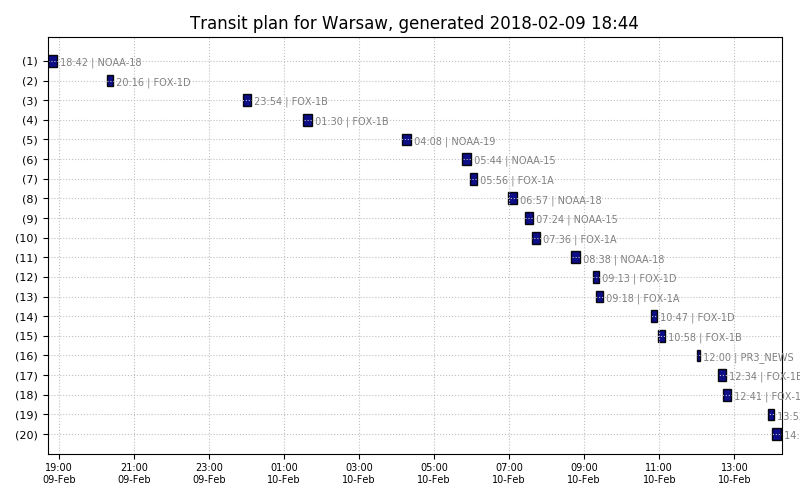
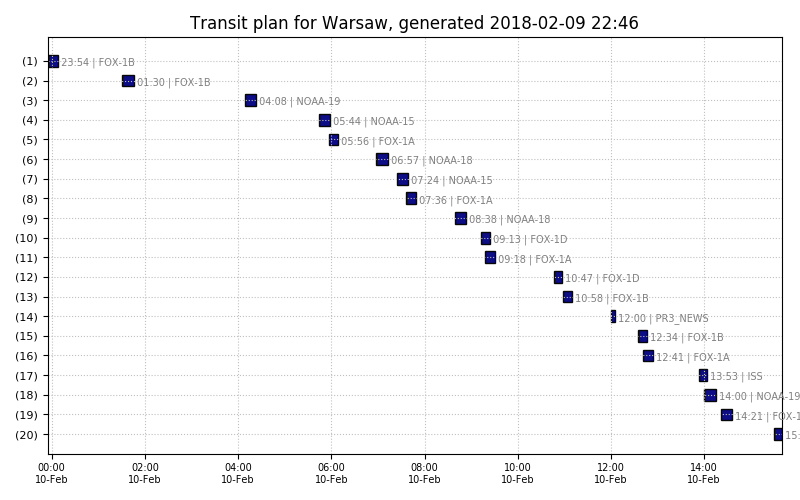
code style

diff --git a/var/nextpass.html b/var/nextpass.html
@@ -1,103 +1,103 @@
 <table>
 <tr><td>#</td><td>satellite</td><td>start</td><td>duration</td><td>peak</td><td>azimuth</td><td>freq</td><td>process with</td><tr>
-<tr><td>1</td><td>NOAA-18</td><td>2018-02-09 18:42</td><td>15:05</td><td>58°</td><td>257° (WSW←↙)</td><td>137912500Hz</td><td>modules/noaa/noaa.sh</td><tr>
-<tr><td>2</td><td>FOX-1D</td><td>2018-02-09 20:16</td><td>10:52</td><td>75°</td><td>73° (ENE→↗)</td><td>145880000Hz</td><td>modules/iss/iss_voice.sh</td><tr>
-<tr><td>3</td><td>FOX-1B</td><td>2018-02-09 23:54</td><td>13:11</td><td>21°</td><td>89° (ENE→↗)</td><td>145960000Hz</td><td>modules/iss/iss_voice.sh</td><tr>
-<tr><td>4</td><td>FOX-1B</td><td>2018-02-10 01:30</td><td>14:35</td><td>74°</td><td>287° (W←)</td><td>145960000Hz</td><td>modules/iss/iss_voice.sh</td><tr>
-<tr><td>5</td><td>NOAA-19</td><td>2018-02-10 04:08</td><td>15:13</td><td>82°</td><td>288° (W←)</td><td>137100000Hz</td><td>modules/noaa/noaa.sh</td><tr>
-<tr><td>6</td><td>NOAA-15</td><td>2018-02-10 05:44</td><td>13:59</td><td>33°</td><td>95° (E→)</td><td>137620000Hz</td><td>modules/noaa/noaa.sh</td><tr>
-<tr><td>7</td><td>FOX-1A</td><td>2018-02-10 05:56</td><td>11:21</td><td>26°</td><td>117° (ESE→↘)</td><td>145980000Hz</td><td>modules/iss/iss_voice.sh</td><tr>
-<tr><td>8</td><td>NOAA-18</td><td>2018-02-10 06:57</td><td>14:30</td><td>37°</td><td>96° (E→)</td><td>137912500Hz</td><td>modules/noaa/noaa.sh</td><tr>
-<tr><td>9</td><td>NOAA-15</td><td>2018-02-10 07:24</td><td>14:11</td><td>46°</td><td>294° (WNW←↖)</td><td>137620000Hz</td><td>modules/noaa/noaa.sh</td><tr>
-<tr><td>10</td><td>FOX-1A</td><td>2018-02-10 07:36</td><td>12:32</td><td>55°</td><td>319° (NW↖)</td><td>145980000Hz</td><td>modules/iss/iss_voice.sh</td><tr>
-<tr><td>11</td><td>NOAA-18</td><td>2018-02-10 08:38</td><td>14:28</td><td>43°</td><td>296° (WNW←↖)</td><td>137912500Hz</td><td>modules/noaa/noaa.sh</td><tr>
-<tr><td>12</td><td>FOX-1D</td><td>2018-02-10 09:13</td><td>10:37</td><td>42°</td><td>98° (E→)</td><td>145880000Hz</td><td>modules/iss/iss_voice.sh</td><tr>
-<tr><td>13</td><td>FOX-1A</td><td>2018-02-10 09:18</td><td>11:53</td><td>21°</td><td>343° (NNW↑↖)</td><td>145980000Hz</td><td>modules/iss/iss_voice.sh</td><tr>
-<tr><td>14</td><td>FOX-1D</td><td>2018-02-10 10:47</td><td>09:42</td><td>20°</td><td>297° (WNW←↖)</td><td>145880000Hz</td><td>modules/iss/iss_voice.sh</td><tr>
-<tr><td>15</td><td>FOX-1B</td><td>2018-02-10 10:58</td><td>11:42</td><td>27°</td><td>60° (NE↗)</td><td>145960000Hz</td><td>modules/iss/iss_voice.sh</td><tr>
-<tr><td>16</td><td>PR3_NEWS</td><td>2018-02-10 12:00</td><td>05:00</td><td>0°</td><td>0° (N↑)</td><td>98988000Hz</td><td>modules/fm/fm.sh</td><tr>
-<tr><td>17</td><td>FOX-1B</td><td>2018-02-10 12:34</td><td>12:15</td><td>43°</td><td>263° (WSW←↙)</td><td>145960000Hz</td><td>modules/iss/iss_voice.sh</td><tr>
-<tr><td>18</td><td>FOX-1A</td><td>2018-02-10 12:41</td><td>13:29</td><td>35°</td><td>31° (NNE↑↗)</td><td>145980000Hz</td><td>modules/iss/iss_voice.sh</td><tr>
-<tr><td>19</td><td>ISS</td><td>2018-02-10 13:53</td><td>09:56</td><td>49°</td><td>160° (SSE↓↘)</td><td>145800000Hz</td><td>modules/iss/iss_voice.sh</td><tr>
-<tr><td>20</td><td>NOAA-19</td><td>2018-02-10 14:00</td><td>15:02</td><td>59°</td><td>67° (NE↗)</td><td>137100000Hz</td><td>modules/noaa/noaa.sh</td><tr>
-<tr><td>21</td><td>FOX-1A</td><td>2018-02-10 14:21</td><td>14:07</td><td>66°</td><td>231° (SW↙)</td><td>145980000Hz</td><td>modules/iss/iss_voice.sh</td><tr>
-<tr><td>22</td><td>ISS</td><td>2018-02-10 15:29</td><td>10:06</td><td>81°</td><td>180° (S↓)</td><td>145800000Hz</td><td>modules/iss/iss_voice.sh</td><tr>
-<tr><td>23</td><td>NOAA-19</td><td>2018-02-10 15:41</td><td>13:55</td><td>26°</td><td>267° (WSW←↙)</td><td>137100000Hz</td><td>modules/noaa/noaa.sh</td><tr>
-<tr><td>24</td><td>NOAA-18</td><td>2018-02-10 16:50</td><td>13:33</td><td>25°</td><td>55° (NE↗)</td><td>137912500Hz</td><td>modules/noaa/noaa.sh</td><tr>
-<tr><td>25</td><td>NOAA-15</td><td>2018-02-10 17:10</td><td>14:41</td><td>88°</td><td>72° (ENE→↗)</td><td>137620000Hz</td><td>modules/noaa/noaa.sh</td><tr>
-<tr><td>26</td><td>NOAA-18</td><td>2018-02-10 18:30</td><td>15:06</td><td>71°</td><td>255° (WSW←↙)</td><td>137912500Hz</td><td>modules/noaa/noaa.sh</td><tr>
-<tr><td>27</td><td>FOX-1D</td><td>2018-02-10 19:56</td><td>10:40</td><td>45°</td><td>69° (ENE→↗)</td><td>145880000Hz</td><td>modules/iss/iss_voice.sh</td><tr>
-<tr><td>28</td><td>FOX-1B</td><td>2018-02-11 00:16</td><td>13:58</td><td>31°</td><td>93° (E→)</td><td>145960000Hz</td><td>modules/iss/iss_voice.sh</td><tr>
-<tr><td>29</td><td>FOX-1B</td><td>2018-02-11 01:53</td><td>14:21</td><td>51°</td><td>291° (W←)</td><td>145960000Hz</td><td>modules/iss/iss_voice.sh</td><tr>
-<tr><td>30</td><td>NOAA-19</td><td>2018-02-11 03:56</td><td>15:14</td><td>83°</td><td>106° (E→)</td><td>137100000Hz</td><td>modules/noaa/noaa.sh</td><tr>
-<tr><td>31</td><td>NOAA-15</td><td>2018-02-11 05:19</td><td>13:10</td><td>21°</td><td>90° (E→)</td><td>137620000Hz</td><td>modules/noaa/noaa.sh</td><tr>
-<tr><td>32</td><td>NOAA-19</td><td>2018-02-11 05:37</td><td>13:23</td><td>22°</td><td>306° (WNW←↖)</td><td>137100000Hz</td><td>modules/noaa/noaa.sh</td><tr>
-<tr><td>33</td><td>FOX-1A</td><td>2018-02-11 06:21</td><td>12:17</td><td>56°</td><td>126° (ESE→↘)</td><td>145980000Hz</td><td>modules/iss/iss_voice.sh</td><tr>
-<tr><td>34</td><td>NOAA-18</td><td>2018-02-11 06:46</td><td>14:12</td><td>30°</td><td>94° (E→)</td><td>137912500Hz</td><td>modules/noaa/noaa.sh</td><tr>
-<tr><td>35</td><td>NOAA-15</td><td>2018-02-11 06:59</td><td>14:32</td><td>70°</td><td>289° (W←)</td><td>137620000Hz</td><td>modules/noaa/noaa.sh</td><tr>
-<tr><td>36</td><td>FOX-1A</td><td>2018-02-11 08:01</td><td>12:20</td><td>33°</td><td>329° (NW↖)</td><td>145980000Hz</td><td>modules/iss/iss_voice.sh</td><tr>
-<tr><td>37</td><td>NOAA-18</td><td>2018-02-11 08:27</td><td>14:41</td><td>51°</td><td>294° (WNW←↖)</td><td>137912500Hz</td><td>modules/noaa/noaa.sh</td><tr>
-<tr><td>38</td><td>FOX-1D</td><td>2018-02-11 08:53</td><td>10:13</td><td>26°</td><td>94° (E→)</td><td>145880000Hz</td><td>modules/iss/iss_voice.sh</td><tr>
-<tr><td>39</td><td>FOX-1D</td><td>2018-02-11 10:27</td><td>10:15</td><td>30°</td><td>293° (WNW←↖)</td><td>145880000Hz</td><td>modules/iss/iss_voice.sh</td><tr>
-<tr><td>40</td><td>FOX-1B</td><td>2018-02-11 11:19</td><td>12:18</td><td>40°</td><td>65° (NE↗)</td><td>145960000Hz</td><td>modules/iss/iss_voice.sh</td><tr>
-<tr><td>41</td><td>FOX-1A</td><td>2018-02-11 11:25</td><td>12:32</td><td>22°</td><td>18° (N↑)</td><td>145980000Hz</td><td>modules/iss/iss_voice.sh</td><tr>
-<tr><td>42</td><td>PR3_NEWS</td><td>2018-02-11 12:00</td><td>05:00</td><td>0°</td><td>0° (N↑)</td><td>98988000Hz</td><td>modules/fm/fm.sh</td><tr>
-<tr><td>43</td><td>FOX-1B</td><td>2018-02-11 12:56</td><td>11:52</td><td>28°</td><td>268° (WSW←↙)</td><td>145960000Hz</td><td>modules/iss/iss_voice.sh</td><tr>
-<tr><td>44</td><td>FOX-1A</td><td>2018-02-11 13:06</td><td>14:06</td><td>55°</td><td>40° (NNE↑↗)</td><td>145980000Hz</td><td>modules/iss/iss_voice.sh</td><tr>
-<tr><td>45</td><td>NOAA-19</td><td>2018-02-11 13:48</td><td>14:46</td><td>49°</td><td>64° (NE↗)</td><td>137100000Hz</td><td>modules/noaa/noaa.sh</td><tr>
-<tr><td>46</td><td>ISS</td><td>2018-02-11 14:37</td><td>10:02</td><td>78°</td><td>174° (SSE↓↘)</td><td>145800000Hz</td><td>modules/iss/iss_voice.sh</td><tr>
-<tr><td>47</td><td>FOX-1A</td><td>2018-02-11 14:46</td><td>13:36</td><td>35°</td><td>239° (SW↙)</td><td>145980000Hz</td><td>modules/iss/iss_voice.sh</td><tr>
-<tr><td>48</td><td>NOAA-19</td><td>2018-02-11 15:30</td><td>14:24</td><td>32°</td><td>265° (WSW←↙)</td><td>137100000Hz</td><td>modules/noaa/noaa.sh</td><tr>
-<tr><td>49</td><td>ISS</td><td>2018-02-11 16:13</td><td>09:59</td><td>61°</td><td>194° (S↓)</td><td>145800000Hz</td><td>modules/iss/iss_voice.sh</td><tr>
-<tr><td>50</td><td>NOAA-18</td><td>2018-02-11 16:39</td><td>13:07</td><td>21°</td><td>52° (NE↗)</td><td>137912500Hz</td><td>modules/noaa/noaa.sh</td><tr>
-<tr><td>51</td><td>NOAA-15</td><td>2018-02-11 16:45</td><td>14:29</td><td>59°</td><td>68° (ENE→↗)</td><td>137620000Hz</td><td>modules/noaa/noaa.sh</td><tr>
-<tr><td>52</td><td>ISS</td><td>2018-02-11 17:50</td><td>09:09</td><td>20°</td><td>213° (SSW↓↙)</td><td>145800000Hz</td><td>modules/iss/iss_voice.sh</td><tr>
-<tr><td>53</td><td>NOAA-18</td><td>2018-02-11 18:18</td><td>15:04</td><td>86°</td><td>253° (WSW←↙)</td><td>137912500Hz</td><td>modules/noaa/noaa.sh</td><tr>
-<tr><td>54</td><td>NOAA-15</td><td>2018-02-11 18:26</td><td>13:38</td><td>25°</td><td>267° (WSW←↙)</td><td>137620000Hz</td><td>modules/noaa/noaa.sh</td><tr>
-<tr><td>55</td><td>FOX-1D</td><td>2018-02-11 19:36</td><td>10:16</td><td>28°</td><td>65° (NE↗)</td><td>145880000Hz</td><td>modules/iss/iss_voice.sh</td><tr>
-<tr><td>56</td><td>FOX-1D</td><td>2018-02-11 21:10</td><td>10:24</td><td>28°</td><td>264° (WSW←↙)</td><td>145880000Hz</td><td>modules/iss/iss_voice.sh</td><tr>
-<tr><td>57</td><td>FOX-1B</td><td>2018-02-12 00:38</td><td>14:29</td><td>46°</td><td>97° (E→)</td><td>145960000Hz</td><td>modules/iss/iss_voice.sh</td><tr>
-<tr><td>58</td><td>FOX-1B</td><td>2018-02-12 02:15</td><td>13:56</td><td>35°</td><td>296° (WNW←↖)</td><td>145960000Hz</td><td>modules/iss/iss_voice.sh</td><tr>
-<tr><td>59</td><td>NOAA-19</td><td>2018-02-12 03:45</td><td>15:13</td><td>69°</td><td>103° (E→)</td><td>137100000Hz</td><td>modules/noaa/noaa.sh</td><tr>
-<tr><td>60</td><td>NOAA-19</td><td>2018-02-12 05:26</td><td>13:47</td><td>26°</td><td>304° (WNW←↖)</td><td>137100000Hz</td><td>modules/noaa/noaa.sh</td><tr>
-<tr><td>61</td><td>NOAA-15</td><td>2018-02-12 06:34</td><td>14:37</td><td>78°</td><td>104° (E→)</td><td>137620000Hz</td><td>modules/noaa/noaa.sh</td><tr>
-<tr><td>62</td><td>NOAA-18</td><td>2018-02-12 06:34</td><td>13:54</td><td>25°</td><td>92° (E→)</td><td>137912500Hz</td><td>modules/noaa/noaa.sh</td><tr>
-<tr><td>63</td><td>FOX-1A</td><td>2018-02-12 06:46</td><td>12:34</td><td>73°</td><td>315° (NW↖)</td><td>145980000Hz</td><td>modules/iss/iss_voice.sh</td><tr>
-<tr><td>64</td><td>NOAA-15</td><td>2018-02-12 08:14</td><td>12:53</td><td>22°</td><td>305° (WNW←↖)</td><td>137620000Hz</td><td>modules/noaa/noaa.sh</td><tr>
-<tr><td>65</td><td>NOAA-18</td><td>2018-02-12 08:15</td><td>14:50</td><td>62°</td><td>292° (W←)</td><td>137912500Hz</td><td>modules/noaa/noaa.sh</td><tr>
-<tr><td>66</td><td>FOX-1A</td><td>2018-02-12 08:27</td><td>11:55</td><td>23°</td><td>339° (NNW↑↖)</td><td>145980000Hz</td><td>modules/iss/iss_voice.sh</td><tr>
-<tr><td>67</td><td>FOX-1D</td><td>2018-02-12 10:06</td><td>10:37</td><td>48°</td><td>289° (W←)</td><td>145880000Hz</td><td>modules/iss/iss_voice.sh</td><tr>
-<tr><td>68</td><td>FOX-1B</td><td>2018-02-12 11:41</td><td>12:42</td><td>63°</td><td>70° (ENE→↗)</td><td>145960000Hz</td><td>modules/iss/iss_voice.sh</td><tr>
-<tr><td>69</td><td>FOX-1A</td><td>2018-02-12 11:50</td><td>13:12</td><td>29°</td><td>27° (NNE↑↗)</td><td>145980000Hz</td><td>modules/iss/iss_voice.sh</td><tr>
-<tr><td>70</td><td>PR3_NEWS</td><td>2018-02-12 12:00</td><td>05:00</td><td>0°</td><td>0° (N↑)</td><td>98988000Hz</td><td>modules/fm/fm.sh</td><tr>
-<tr><td>71</td><td>ISS</td><td>2018-02-12 12:09</td><td>09:29</td><td>25°</td><td>149° (SE↘)</td><td>145800000Hz</td><td>modules/iss/iss_voice.sh</td><tr>
-<tr><td>72</td><td>NOAA-19</td><td>2018-02-12 13:37</td><td>14:33</td><td>41°</td><td>62° (NE↗)</td><td>137100000Hz</td><td>modules/noaa/noaa.sh</td><tr>
-<tr><td>73</td><td>NOAA-19</td><td>2018-02-12 15:18</td><td>14:41</td><td>39°</td><td>262° (WSW←↙)</td><td>137100000Hz</td><td>modules/noaa/noaa.sh</td><tr>
-<tr><td>74</td><td>NOAA-15</td><td>2018-02-12 16:21</td><td>14:04</td><td>39°</td><td>63° (NE↗)</td><td>137620000Hz</td><td>modules/noaa/noaa.sh</td><tr>
-<tr><td>75</td><td>ISS</td><td>2018-02-12 16:57</td><td>09:35</td><td>29°</td><td>207° (SSW↓↙)</td><td>145800000Hz</td><td>modules/iss/iss_voice.sh</td><tr>
-<tr><td>76</td><td>NOAA-15</td><td>2018-02-12 18:00</td><td>14:16</td><td>39°</td><td>262° (WSW←↙)</td><td>137620000Hz</td><td>modules/noaa/noaa.sh</td><tr>
-<tr><td>77</td><td>NOAA-18</td><td>2018-02-12 18:07</td><td>15:08</td><td>79°</td><td>70° (ENE→↗)</td><td>137912500Hz</td><td>modules/noaa/noaa.sh</td><tr>
-<tr><td>78</td><td>FOX-1D</td><td>2018-02-12 20:49</td><td>10:45</td><td>46°</td><td>260° (WSW←↙)</td><td>145880000Hz</td><td>modules/iss/iss_voice.sh</td><tr>
-<tr><td>79</td><td>FOX-1B</td><td>2018-02-13 01:01</td><td>14:43</td><td>68°</td><td>101° (E→)</td><td>145960000Hz</td><td>modules/iss/iss_voice.sh</td><tr>
-<tr><td>80</td><td>FOX-1B</td><td>2018-02-13 02:37</td><td>13:19</td><td>25°</td><td>300° (WNW←↖)</td><td>145960000Hz</td><td>modules/iss/iss_voice.sh</td><tr>
-<tr><td>81</td><td>NOAA-19</td><td>2018-02-13 03:33</td><td>15:08</td><td>57°</td><td>101° (E→)</td><td>137100000Hz</td><td>modules/noaa/noaa.sh</td><tr>
-<tr><td>82</td><td>NOAA-19</td><td>2018-02-13 05:14</td><td>14:08</td><td>30°</td><td>301° (WNW←↖)</td><td>137100000Hz</td><td>modules/noaa/noaa.sh</td><tr>
-<tr><td>83</td><td>FOX-1A</td><td>2018-02-13 05:31</td><td>12:00</td><td>39°</td><td>122° (ESE→↘)</td><td>145980000Hz</td><td>modules/iss/iss_voice.sh</td><tr>
-<tr><td>84</td><td>NOAA-15</td><td>2018-02-13 06:09</td><td>14:27</td><td>50°</td><td>100° (E→)</td><td>137620000Hz</td><td>modules/noaa/noaa.sh</td><tr>
-<tr><td>85</td><td>NOAA-18</td><td>2018-02-13 06:23</td><td>13:23</td><td>20°</td><td>89° (ENE→↗)</td><td>137912500Hz</td><td>modules/noaa/noaa.sh</td><tr>
-<tr><td>86</td><td>FOX-1A</td><td>2018-02-13 07:11</td><td>12:29</td><td>41°</td><td>324° (NW↖)</td><td>145980000Hz</td><td>modules/iss/iss_voice.sh</td><tr>
-<tr><td>87</td><td>NOAA-15</td><td>2018-02-13 07:49</td><td>13:39</td><td>31°</td><td>300° (WNW←↖)</td><td>137620000Hz</td><td>modules/noaa/noaa.sh</td><tr>
-<tr><td>88</td><td>NOAA-18</td><td>2018-02-13 08:03</td><td>14:57</td><td>75°</td><td>289° (W←)</td><td>137912500Hz</td><td>modules/noaa/noaa.sh</td><tr>
-<tr><td>89</td><td>FOX-1D</td><td>2018-02-13 09:46</td><td>10:47</td><td>82°</td><td>285° (W←)</td><td>145880000Hz</td><td>modules/iss/iss_voice.sh</td><tr>
-<tr><td>90</td><td>FOX-1A</td><td>2018-02-13 10:34</td><td>12:18</td><td>20°</td><td>13° (N↑)</td><td>145980000Hz</td><td>modules/iss/iss_voice.sh</td><tr>
-<tr><td>91</td><td>PR3_NEWS</td><td>2018-02-13 12:00</td><td>05:00</td><td>0°</td><td>0° (N↑)</td><td>98988000Hz</td><td>modules/fm/fm.sh</td><tr>
-<tr><td>92</td><td>FOX-1B</td><td>2018-02-13 12:03</td><td>12:54</td><td>82°</td><td>256° (WSW←↙)</td><td>145960000Hz</td><td>modules/iss/iss_voice.sh</td><tr>
-<tr><td>93</td><td>FOX-1A</td><td>2018-02-13 12:15</td><td>13:48</td><td>44°</td><td>36° (NNE↑↗)</td><td>145980000Hz</td><td>modules/iss/iss_voice.sh</td><tr>
-<tr><td>94</td><td>ISS</td><td>2018-02-13 12:52</td><td>09:56</td><td>54°</td><td>162° (SSE↓↘)</td><td>145800000Hz</td><td>modules/iss/iss_voice.sh</td><tr>
-<tr><td>95</td><td>NOAA-19</td><td>2018-02-13 13:26</td><td>14:18</td><td>35°</td><td>60° (NE↗)</td><td>137100000Hz</td><td>modules/noaa/noaa.sh</td><tr>
-<tr><td>96</td><td>FOX-1A</td><td>2018-02-13 13:56</td><td>13:56</td><td>47°</td><td>236° (SW↙)</td><td>145980000Hz</td><td>modules/iss/iss_voice.sh</td><tr>
-<tr><td>97</td><td>ISS</td><td>2018-02-13 14:29</td><td>10:02</td><td>80°</td><td>182° (S↓)</td><td>145800000Hz</td><td>modules/iss/iss_voice.sh</td><tr>
-<tr><td>98</td><td>NOAA-19</td><td>2018-02-13 15:06</td><td>14:54</td><td>47°</td><td>260° (WSW←↙)</td><td>137100000Hz</td><td>modules/noaa/noaa.sh</td><tr>
-<tr><td>99</td><td>NOAA-15</td><td>2018-02-13 15:56</td><td>13:25</td><td>27°</td><td>57° (NE↗)</td><td>137620000Hz</td><td>modules/noaa/noaa.sh</td><tr>
-<tr><td>100</td><td>NOAA-15</td><td>2018-02-13 17:35</td><td>14:34</td><td>61°</td><td>257° (WSW←↙)</td><td>137620000Hz</td><td>modules/noaa/noaa.sh</td><tr>
+<tr><td>1</td><td>FOX-1B</td><td>2018-02-09 23:54</td><td>13:10</td><td>21°</td><td>89° (ENE→↗)</td><td>145960000Hz</td><td>modules/iss/iss_voice.sh</td><tr>
+<tr><td>2</td><td>FOX-1B</td><td>2018-02-10 01:30</td><td>14:35</td><td>74°</td><td>287° (W←)</td><td>145960000Hz</td><td>modules/iss/iss_voice.sh</td><tr>
+<tr><td>3</td><td>NOAA-19</td><td>2018-02-10 04:08</td><td>15:13</td><td>82°</td><td>288° (W←)</td><td>137100000Hz</td><td>modules/noaa/noaa.sh</td><tr>
+<tr><td>4</td><td>NOAA-15</td><td>2018-02-10 05:44</td><td>13:59</td><td>33°</td><td>95° (E→)</td><td>137620000Hz</td><td>modules/noaa/noaa.sh</td><tr>
+<tr><td>5</td><td>FOX-1A</td><td>2018-02-10 05:56</td><td>11:21</td><td>26°</td><td>117° (ESE→↘)</td><td>145980000Hz</td><td>modules/iss/iss_voice.sh</td><tr>
+<tr><td>6</td><td>NOAA-18</td><td>2018-02-10 06:57</td><td>14:30</td><td>37°</td><td>96° (E→)</td><td>137912500Hz</td><td>modules/noaa/noaa.sh</td><tr>
+<tr><td>7</td><td>NOAA-15</td><td>2018-02-10 07:24</td><td>14:11</td><td>46°</td><td>294° (WNW←↖)</td><td>137620000Hz</td><td>modules/noaa/noaa.sh</td><tr>
+<tr><td>8</td><td>FOX-1A</td><td>2018-02-10 07:36</td><td>12:32</td><td>55°</td><td>319° (NW↖)</td><td>145980000Hz</td><td>modules/iss/iss_voice.sh</td><tr>
+<tr><td>9</td><td>NOAA-18</td><td>2018-02-10 08:38</td><td>14:28</td><td>43°</td><td>296° (WNW←↖)</td><td>137912500Hz</td><td>modules/noaa/noaa.sh</td><tr>
+<tr><td>10</td><td>FOX-1D</td><td>2018-02-10 09:13</td><td>10:37</td><td>42°</td><td>98° (E→)</td><td>145880000Hz</td><td>modules/iss/iss_voice.sh</td><tr>
+<tr><td>11</td><td>FOX-1A</td><td>2018-02-10 09:18</td><td>11:53</td><td>21°</td><td>343° (NNW↑↖)</td><td>145980000Hz</td><td>modules/iss/iss_voice.sh</td><tr>
+<tr><td>12</td><td>FOX-1D</td><td>2018-02-10 10:47</td><td>09:42</td><td>20°</td><td>297° (WNW←↖)</td><td>145880000Hz</td><td>modules/iss/iss_voice.sh</td><tr>
+<tr><td>13</td><td>FOX-1B</td><td>2018-02-10 10:58</td><td>11:42</td><td>27°</td><td>60° (NE↗)</td><td>145960000Hz</td><td>modules/iss/iss_voice.sh</td><tr>
+<tr><td>14</td><td>PR3_NEWS</td><td>2018-02-10 12:00</td><td>05:00</td><td>0°</td><td>0° (N↑)</td><td>98988000Hz</td><td>modules/fm/fm.sh</td><tr>
+<tr><td>15</td><td>FOX-1B</td><td>2018-02-10 12:34</td><td>12:15</td><td>43°</td><td>263° (WSW←↙)</td><td>145960000Hz</td><td>modules/iss/iss_voice.sh</td><tr>
+<tr><td>16</td><td>FOX-1A</td><td>2018-02-10 12:41</td><td>13:29</td><td>35°</td><td>31° (NNE↑↗)</td><td>145980000Hz</td><td>modules/iss/iss_voice.sh</td><tr>
+<tr><td>17</td><td>ISS</td><td>2018-02-10 13:53</td><td>09:56</td><td>49°</td><td>160° (SSE↓↘)</td><td>145800000Hz</td><td>modules/iss/iss_voice.sh</td><tr>
+<tr><td>18</td><td>NOAA-19</td><td>2018-02-10 14:00</td><td>15:02</td><td>59°</td><td>67° (NE↗)</td><td>137100000Hz</td><td>modules/noaa/noaa.sh</td><tr>
+<tr><td>19</td><td>FOX-1A</td><td>2018-02-10 14:21</td><td>14:07</td><td>66°</td><td>231° (SW↙)</td><td>145980000Hz</td><td>modules/iss/iss_voice.sh</td><tr>
+<tr><td>20</td><td>ISS</td><td>2018-02-10 15:29</td><td>10:06</td><td>81°</td><td>180° (S↓)</td><td>145800000Hz</td><td>modules/iss/iss_voice.sh</td><tr>
+<tr><td>21</td><td>NOAA-19</td><td>2018-02-10 15:41</td><td>13:55</td><td>26°</td><td>267° (WSW←↙)</td><td>137100000Hz</td><td>modules/noaa/noaa.sh</td><tr>
+<tr><td>22</td><td>NOAA-18</td><td>2018-02-10 16:50</td><td>13:33</td><td>25°</td><td>55° (NE↗)</td><td>137912500Hz</td><td>modules/noaa/noaa.sh</td><tr>
+<tr><td>23</td><td>NOAA-15</td><td>2018-02-10 17:10</td><td>14:41</td><td>88°</td><td>72° (ENE→↗)</td><td>137620000Hz</td><td>modules/noaa/noaa.sh</td><tr>
+<tr><td>24</td><td>NOAA-18</td><td>2018-02-10 18:30</td><td>15:06</td><td>71°</td><td>255° (WSW←↙)</td><td>137912500Hz</td><td>modules/noaa/noaa.sh</td><tr>
+<tr><td>25</td><td>FOX-1D</td><td>2018-02-10 19:56</td><td>10:40</td><td>45°</td><td>69° (ENE→↗)</td><td>145880000Hz</td><td>modules/iss/iss_voice.sh</td><tr>
+<tr><td>26</td><td>FOX-1B</td><td>2018-02-11 00:16</td><td>13:58</td><td>31°</td><td>93° (E→)</td><td>145960000Hz</td><td>modules/iss/iss_voice.sh</td><tr>
+<tr><td>27</td><td>FOX-1B</td><td>2018-02-11 01:53</td><td>14:21</td><td>51°</td><td>291° (W←)</td><td>145960000Hz</td><td>modules/iss/iss_voice.sh</td><tr>
+<tr><td>28</td><td>NOAA-19</td><td>2018-02-11 03:56</td><td>15:14</td><td>83°</td><td>106° (E→)</td><td>137100000Hz</td><td>modules/noaa/noaa.sh</td><tr>
+<tr><td>29</td><td>NOAA-15</td><td>2018-02-11 05:19</td><td>13:10</td><td>21°</td><td>90° (E→)</td><td>137620000Hz</td><td>modules/noaa/noaa.sh</td><tr>
+<tr><td>30</td><td>NOAA-19</td><td>2018-02-11 05:37</td><td>13:23</td><td>22°</td><td>306° (WNW←↖)</td><td>137100000Hz</td><td>modules/noaa/noaa.sh</td><tr>
+<tr><td>31</td><td>FOX-1A</td><td>2018-02-11 06:21</td><td>12:17</td><td>56°</td><td>126° (ESE→↘)</td><td>145980000Hz</td><td>modules/iss/iss_voice.sh</td><tr>
+<tr><td>32</td><td>NOAA-18</td><td>2018-02-11 06:46</td><td>14:12</td><td>30°</td><td>94° (E→)</td><td>137912500Hz</td><td>modules/noaa/noaa.sh</td><tr>
+<tr><td>33</td><td>NOAA-15</td><td>2018-02-11 06:59</td><td>14:32</td><td>70°</td><td>289° (W←)</td><td>137620000Hz</td><td>modules/noaa/noaa.sh</td><tr>
+<tr><td>34</td><td>FOX-1A</td><td>2018-02-11 08:01</td><td>12:20</td><td>33°</td><td>329° (NW↖)</td><td>145980000Hz</td><td>modules/iss/iss_voice.sh</td><tr>
+<tr><td>35</td><td>NOAA-18</td><td>2018-02-11 08:27</td><td>14:41</td><td>51°</td><td>294° (WNW←↖)</td><td>137912500Hz</td><td>modules/noaa/noaa.sh</td><tr>
+<tr><td>36</td><td>FOX-1D</td><td>2018-02-11 08:53</td><td>10:13</td><td>26°</td><td>94° (E→)</td><td>145880000Hz</td><td>modules/iss/iss_voice.sh</td><tr>
+<tr><td>37</td><td>FOX-1D</td><td>2018-02-11 10:27</td><td>10:15</td><td>30°</td><td>293° (WNW←↖)</td><td>145880000Hz</td><td>modules/iss/iss_voice.sh</td><tr>
+<tr><td>38</td><td>FOX-1B</td><td>2018-02-11 11:19</td><td>12:18</td><td>40°</td><td>65° (NE↗)</td><td>145960000Hz</td><td>modules/iss/iss_voice.sh</td><tr>
+<tr><td>39</td><td>FOX-1A</td><td>2018-02-11 11:25</td><td>12:32</td><td>22°</td><td>18° (N↑)</td><td>145980000Hz</td><td>modules/iss/iss_voice.sh</td><tr>
+<tr><td>40</td><td>PR3_NEWS</td><td>2018-02-11 12:00</td><td>05:00</td><td>0°</td><td>0° (N↑)</td><td>98988000Hz</td><td>modules/fm/fm.sh</td><tr>
+<tr><td>41</td><td>FOX-1B</td><td>2018-02-11 12:56</td><td>11:52</td><td>28°</td><td>268° (WSW←↙)</td><td>145960000Hz</td><td>modules/iss/iss_voice.sh</td><tr>
+<tr><td>42</td><td>FOX-1A</td><td>2018-02-11 13:06</td><td>14:06</td><td>55°</td><td>40° (NNE↑↗)</td><td>145980000Hz</td><td>modules/iss/iss_voice.sh</td><tr>
+<tr><td>43</td><td>NOAA-19</td><td>2018-02-11 13:48</td><td>14:46</td><td>49°</td><td>64° (NE↗)</td><td>137100000Hz</td><td>modules/noaa/noaa.sh</td><tr>
+<tr><td>44</td><td>ISS</td><td>2018-02-11 14:37</td><td>10:02</td><td>78°</td><td>174° (SSE↓↘)</td><td>145800000Hz</td><td>modules/iss/iss_voice.sh</td><tr>
+<tr><td>45</td><td>FOX-1A</td><td>2018-02-11 14:46</td><td>13:36</td><td>35°</td><td>239° (SW↙)</td><td>145980000Hz</td><td>modules/iss/iss_voice.sh</td><tr>
+<tr><td>46</td><td>NOAA-19</td><td>2018-02-11 15:30</td><td>14:24</td><td>32°</td><td>265° (WSW←↙)</td><td>137100000Hz</td><td>modules/noaa/noaa.sh</td><tr>
+<tr><td>47</td><td>ISS</td><td>2018-02-11 16:13</td><td>09:59</td><td>61°</td><td>194° (S↓)</td><td>145800000Hz</td><td>modules/iss/iss_voice.sh</td><tr>
+<tr><td>48</td><td>NOAA-18</td><td>2018-02-11 16:39</td><td>13:07</td><td>21°</td><td>52° (NE↗)</td><td>137912500Hz</td><td>modules/noaa/noaa.sh</td><tr>
+<tr><td>49</td><td>NOAA-15</td><td>2018-02-11 16:45</td><td>14:29</td><td>59°</td><td>68° (ENE→↗)</td><td>137620000Hz</td><td>modules/noaa/noaa.sh</td><tr>
+<tr><td>50</td><td>ISS</td><td>2018-02-11 17:50</td><td>09:09</td><td>20°</td><td>213° (SSW↓↙)</td><td>145800000Hz</td><td>modules/iss/iss_voice.sh</td><tr>
+<tr><td>51</td><td>NOAA-18</td><td>2018-02-11 18:18</td><td>15:04</td><td>86°</td><td>253° (WSW←↙)</td><td>137912500Hz</td><td>modules/noaa/noaa.sh</td><tr>
+<tr><td>52</td><td>NOAA-15</td><td>2018-02-11 18:26</td><td>13:38</td><td>25°</td><td>267° (WSW←↙)</td><td>137620000Hz</td><td>modules/noaa/noaa.sh</td><tr>
+<tr><td>53</td><td>FOX-1D</td><td>2018-02-11 19:36</td><td>10:16</td><td>28°</td><td>65° (NE↗)</td><td>145880000Hz</td><td>modules/iss/iss_voice.sh</td><tr>
+<tr><td>54</td><td>FOX-1D</td><td>2018-02-11 21:10</td><td>10:24</td><td>28°</td><td>264° (WSW←↙)</td><td>145880000Hz</td><td>modules/iss/iss_voice.sh</td><tr>
+<tr><td>55</td><td>FOX-1B</td><td>2018-02-12 00:38</td><td>14:29</td><td>46°</td><td>97° (E→)</td><td>145960000Hz</td><td>modules/iss/iss_voice.sh</td><tr>
+<tr><td>56</td><td>FOX-1B</td><td>2018-02-12 02:15</td><td>13:56</td><td>35°</td><td>296° (WNW←↖)</td><td>145960000Hz</td><td>modules/iss/iss_voice.sh</td><tr>
+<tr><td>57</td><td>NOAA-19</td><td>2018-02-12 03:45</td><td>15:13</td><td>69°</td><td>103° (E→)</td><td>137100000Hz</td><td>modules/noaa/noaa.sh</td><tr>
+<tr><td>58</td><td>NOAA-19</td><td>2018-02-12 05:26</td><td>13:47</td><td>26°</td><td>304° (WNW←↖)</td><td>137100000Hz</td><td>modules/noaa/noaa.sh</td><tr>
+<tr><td>59</td><td>NOAA-15</td><td>2018-02-12 06:34</td><td>14:37</td><td>78°</td><td>104° (E→)</td><td>137620000Hz</td><td>modules/noaa/noaa.sh</td><tr>
+<tr><td>60</td><td>NOAA-18</td><td>2018-02-12 06:34</td><td>13:54</td><td>25°</td><td>92° (E→)</td><td>137912500Hz</td><td>modules/noaa/noaa.sh</td><tr>
+<tr><td>61</td><td>FOX-1A</td><td>2018-02-12 06:46</td><td>12:34</td><td>73°</td><td>315° (NW↖)</td><td>145980000Hz</td><td>modules/iss/iss_voice.sh</td><tr>
+<tr><td>62</td><td>NOAA-15</td><td>2018-02-12 08:14</td><td>12:53</td><td>22°</td><td>305° (WNW←↖)</td><td>137620000Hz</td><td>modules/noaa/noaa.sh</td><tr>
+<tr><td>63</td><td>NOAA-18</td><td>2018-02-12 08:15</td><td>14:50</td><td>62°</td><td>292° (W←)</td><td>137912500Hz</td><td>modules/noaa/noaa.sh</td><tr>
+<tr><td>64</td><td>FOX-1A</td><td>2018-02-12 08:27</td><td>11:55</td><td>23°</td><td>339° (NNW↑↖)</td><td>145980000Hz</td><td>modules/iss/iss_voice.sh</td><tr>
+<tr><td>65</td><td>FOX-1D</td><td>2018-02-12 10:06</td><td>10:37</td><td>48°</td><td>289° (W←)</td><td>145880000Hz</td><td>modules/iss/iss_voice.sh</td><tr>
+<tr><td>66</td><td>FOX-1B</td><td>2018-02-12 11:41</td><td>12:42</td><td>63°</td><td>70° (ENE→↗)</td><td>145960000Hz</td><td>modules/iss/iss_voice.sh</td><tr>
+<tr><td>67</td><td>FOX-1A</td><td>2018-02-12 11:50</td><td>13:12</td><td>29°</td><td>27° (NNE↑↗)</td><td>145980000Hz</td><td>modules/iss/iss_voice.sh</td><tr>
+<tr><td>68</td><td>PR3_NEWS</td><td>2018-02-12 12:00</td><td>05:00</td><td>0°</td><td>0° (N↑)</td><td>98988000Hz</td><td>modules/fm/fm.sh</td><tr>
+<tr><td>69</td><td>ISS</td><td>2018-02-12 12:09</td><td>09:29</td><td>25°</td><td>149° (SE↘)</td><td>145800000Hz</td><td>modules/iss/iss_voice.sh</td><tr>
+<tr><td>70</td><td>NOAA-19</td><td>2018-02-12 13:37</td><td>14:33</td><td>41°</td><td>62° (NE↗)</td><td>137100000Hz</td><td>modules/noaa/noaa.sh</td><tr>
+<tr><td>71</td><td>NOAA-19</td><td>2018-02-12 15:18</td><td>14:41</td><td>39°</td><td>262° (WSW←↙)</td><td>137100000Hz</td><td>modules/noaa/noaa.sh</td><tr>
+<tr><td>72</td><td>NOAA-15</td><td>2018-02-12 16:21</td><td>14:04</td><td>39°</td><td>63° (NE↗)</td><td>137620000Hz</td><td>modules/noaa/noaa.sh</td><tr>
+<tr><td>73</td><td>ISS</td><td>2018-02-12 16:57</td><td>09:35</td><td>29°</td><td>207° (SSW↓↙)</td><td>145800000Hz</td><td>modules/iss/iss_voice.sh</td><tr>
+<tr><td>74</td><td>NOAA-15</td><td>2018-02-12 18:00</td><td>14:16</td><td>39°</td><td>262° (WSW←↙)</td><td>137620000Hz</td><td>modules/noaa/noaa.sh</td><tr>
+<tr><td>75</td><td>NOAA-18</td><td>2018-02-12 18:07</td><td>15:08</td><td>79°</td><td>70° (ENE→↗)</td><td>137912500Hz</td><td>modules/noaa/noaa.sh</td><tr>
+<tr><td>76</td><td>FOX-1D</td><td>2018-02-12 20:49</td><td>10:45</td><td>46°</td><td>260° (WSW←↙)</td><td>145880000Hz</td><td>modules/iss/iss_voice.sh</td><tr>
+<tr><td>77</td><td>FOX-1B</td><td>2018-02-13 01:01</td><td>14:43</td><td>68°</td><td>101° (E→)</td><td>145960000Hz</td><td>modules/iss/iss_voice.sh</td><tr>
+<tr><td>78</td><td>FOX-1B</td><td>2018-02-13 02:37</td><td>13:19</td><td>25°</td><td>300° (WNW←↖)</td><td>145960000Hz</td><td>modules/iss/iss_voice.sh</td><tr>
+<tr><td>79</td><td>NOAA-19</td><td>2018-02-13 03:33</td><td>15:08</td><td>57°</td><td>101° (E→)</td><td>137100000Hz</td><td>modules/noaa/noaa.sh</td><tr>
+<tr><td>80</td><td>NOAA-19</td><td>2018-02-13 05:14</td><td>14:08</td><td>30°</td><td>301° (WNW←↖)</td><td>137100000Hz</td><td>modules/noaa/noaa.sh</td><tr>
+<tr><td>81</td><td>FOX-1A</td><td>2018-02-13 05:31</td><td>12:00</td><td>39°</td><td>122° (ESE→↘)</td><td>145980000Hz</td><td>modules/iss/iss_voice.sh</td><tr>
+<tr><td>82</td><td>NOAA-15</td><td>2018-02-13 06:09</td><td>14:27</td><td>50°</td><td>100° (E→)</td><td>137620000Hz</td><td>modules/noaa/noaa.sh</td><tr>
+<tr><td>83</td><td>NOAA-18</td><td>2018-02-13 06:23</td><td>13:23</td><td>20°</td><td>89° (ENE→↗)</td><td>137912500Hz</td><td>modules/noaa/noaa.sh</td><tr>
+<tr><td>84</td><td>FOX-1A</td><td>2018-02-13 07:11</td><td>12:29</td><td>41°</td><td>324° (NW↖)</td><td>145980000Hz</td><td>modules/iss/iss_voice.sh</td><tr>
+<tr><td>85</td><td>NOAA-15</td><td>2018-02-13 07:49</td><td>13:39</td><td>31°</td><td>300° (WNW←↖)</td><td>137620000Hz</td><td>modules/noaa/noaa.sh</td><tr>
+<tr><td>86</td><td>NOAA-18</td><td>2018-02-13 08:03</td><td>14:57</td><td>75°</td><td>289° (W←)</td><td>137912500Hz</td><td>modules/noaa/noaa.sh</td><tr>
+<tr><td>87</td><td>FOX-1D</td><td>2018-02-13 09:46</td><td>10:47</td><td>82°</td><td>285° (W←)</td><td>145880000Hz</td><td>modules/iss/iss_voice.sh</td><tr>
+<tr><td>88</td><td>FOX-1A</td><td>2018-02-13 10:34</td><td>12:18</td><td>20°</td><td>13° (N↑)</td><td>145980000Hz</td><td>modules/iss/iss_voice.sh</td><tr>
+<tr><td>89</td><td>PR3_NEWS</td><td>2018-02-13 12:00</td><td>05:00</td><td>0°</td><td>0° (N↑)</td><td>98988000Hz</td><td>modules/fm/fm.sh</td><tr>
+<tr><td>90</td><td>FOX-1B</td><td>2018-02-13 12:03</td><td>12:54</td><td>82°</td><td>256° (WSW←↙)</td><td>145960000Hz</td><td>modules/iss/iss_voice.sh</td><tr>
+<tr><td>91</td><td>FOX-1A</td><td>2018-02-13 12:15</td><td>13:48</td><td>44°</td><td>36° (NNE↑↗)</td><td>145980000Hz</td><td>modules/iss/iss_voice.sh</td><tr>
+<tr><td>92</td><td>ISS</td><td>2018-02-13 12:52</td><td>09:56</td><td>54°</td><td>162° (SSE↓↘)</td><td>145800000Hz</td><td>modules/iss/iss_voice.sh</td><tr>
+<tr><td>93</td><td>NOAA-19</td><td>2018-02-13 13:26</td><td>14:18</td><td>35°</td><td>60° (NE↗)</td><td>137100000Hz</td><td>modules/noaa/noaa.sh</td><tr>
+<tr><td>94</td><td>FOX-1A</td><td>2018-02-13 13:56</td><td>13:56</td><td>47°</td><td>236° (SW↙)</td><td>145980000Hz</td><td>modules/iss/iss_voice.sh</td><tr>
+<tr><td>95</td><td>ISS</td><td>2018-02-13 14:29</td><td>10:02</td><td>80°</td><td>182° (S↓)</td><td>145800000Hz</td><td>modules/iss/iss_voice.sh</td><tr>
+<tr><td>96</td><td>NOAA-19</td><td>2018-02-13 15:06</td><td>14:54</td><td>47°</td><td>260° (WSW←↙)</td><td>137100000Hz</td><td>modules/noaa/noaa.sh</td><tr>
+<tr><td>97</td><td>NOAA-15</td><td>2018-02-13 15:56</td><td>13:25</td><td>27°</td><td>57° (NE↗)</td><td>137620000Hz</td><td>modules/noaa/noaa.sh</td><tr>
+<tr><td>98</td><td>NOAA-15</td><td>2018-02-13 17:35</td><td>14:34</td><td>61°</td><td>257° (WSW←↙)</td><td>137620000Hz</td><td>modules/noaa/noaa.sh</td><tr>
+<tr><td>99</td><td>NOAA-18</td><td>2018-02-13 17:55</td><td>14:56</td><td>65°</td><td>68° (ENE→↗)</td><td>137912500Hz</td><td>modules/noaa/noaa.sh</td><tr>
+<tr><td>100</td><td>NOAA-18</td><td>2018-02-13 19:37</td><td>13:46</td><td>24°</td><td>268° (WSW←↙)</td><td>137912500Hz</td><td>modules/noaa/noaa.sh</td><tr>
 </table>

diff --git a/genpasstable.py b/genpasstable.py
@@ -19,7 +19,7 @@ matplotlib.use('Agg')  # Force matplotlib to not use any Xwindows backend.
 import matplotlib.pyplot as plt
 import matplotlib.font_manager as font_manager
 import matplotlib.dates
-from matplotlib.dates import DateFormatter, rrulewrapper, RRuleLocator
+from matplotlib.dates import DateFormatter, rrulewrapper
 import numpy as np
 
 
@@ -172,8 +172,8 @@ def listNextPasesList(passTable, howmany):
     output = []
     for satelitePass in passTable[0:howmany]:
         satellite, start, duration, peak, azimuth = satelitePass
-        freq = satellitesData[satellite]['freq']
-        processWith = satellitesData[satellite]['processWith']
+        #freq = satellitesData[satellite]['freq']
+        #processWith = satellitesData[satellite]['processWith']
 
         output.append([satellite, start, start + duration])
     return output

diff --git a/autowx2.py b/autowx2.py
@@ -34,7 +34,8 @@ def mkdir_p(outdir):
         os.makedirs(outdir)
 
 
-class bc:
+class bc():
+    """Colors made easy"""
     HEADER = '\033[95m'
     CYAN = '\033[96m'
     YELLOW = '\033[93m'
@@ -68,7 +69,7 @@ def getTleData(satellite):
     for i, line in enumerate(tledata):
         if satellite in line:
             for n in tledata[i:i + 3]:
-                tleData.append(n.strip('\r\n').rstrip()),
+                tleData.append(n.strip('\r\n').rstrip())
             break
     if len(tleData) > 0:
         return tleData

diff --git a/_crontab.py b/_crontab.py
@@ -216,7 +216,8 @@ class _Matcher(object):
         self.allowed = frozenset(self.allowed)
 
     def __call__(self, v, dt):
-        for i, x in enumerate(self.split):
+        #for i, x in enumerate(self.split):
+        for x in self.split:
             if x == 'l':
                 if v == _end_of_month(dt).day:
                     return True
